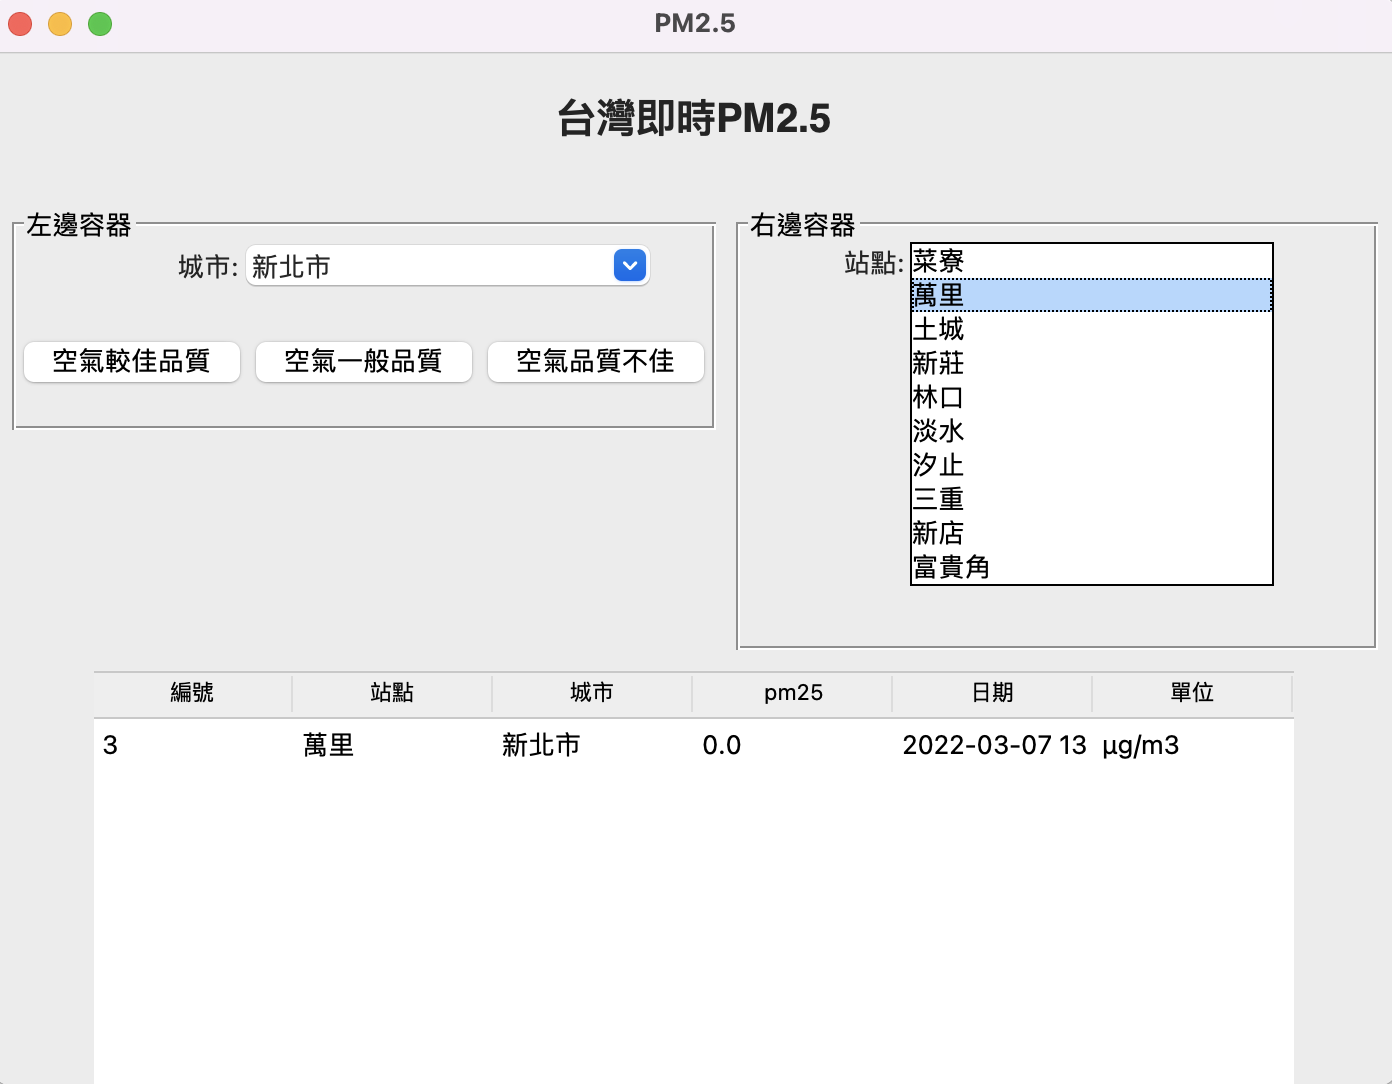
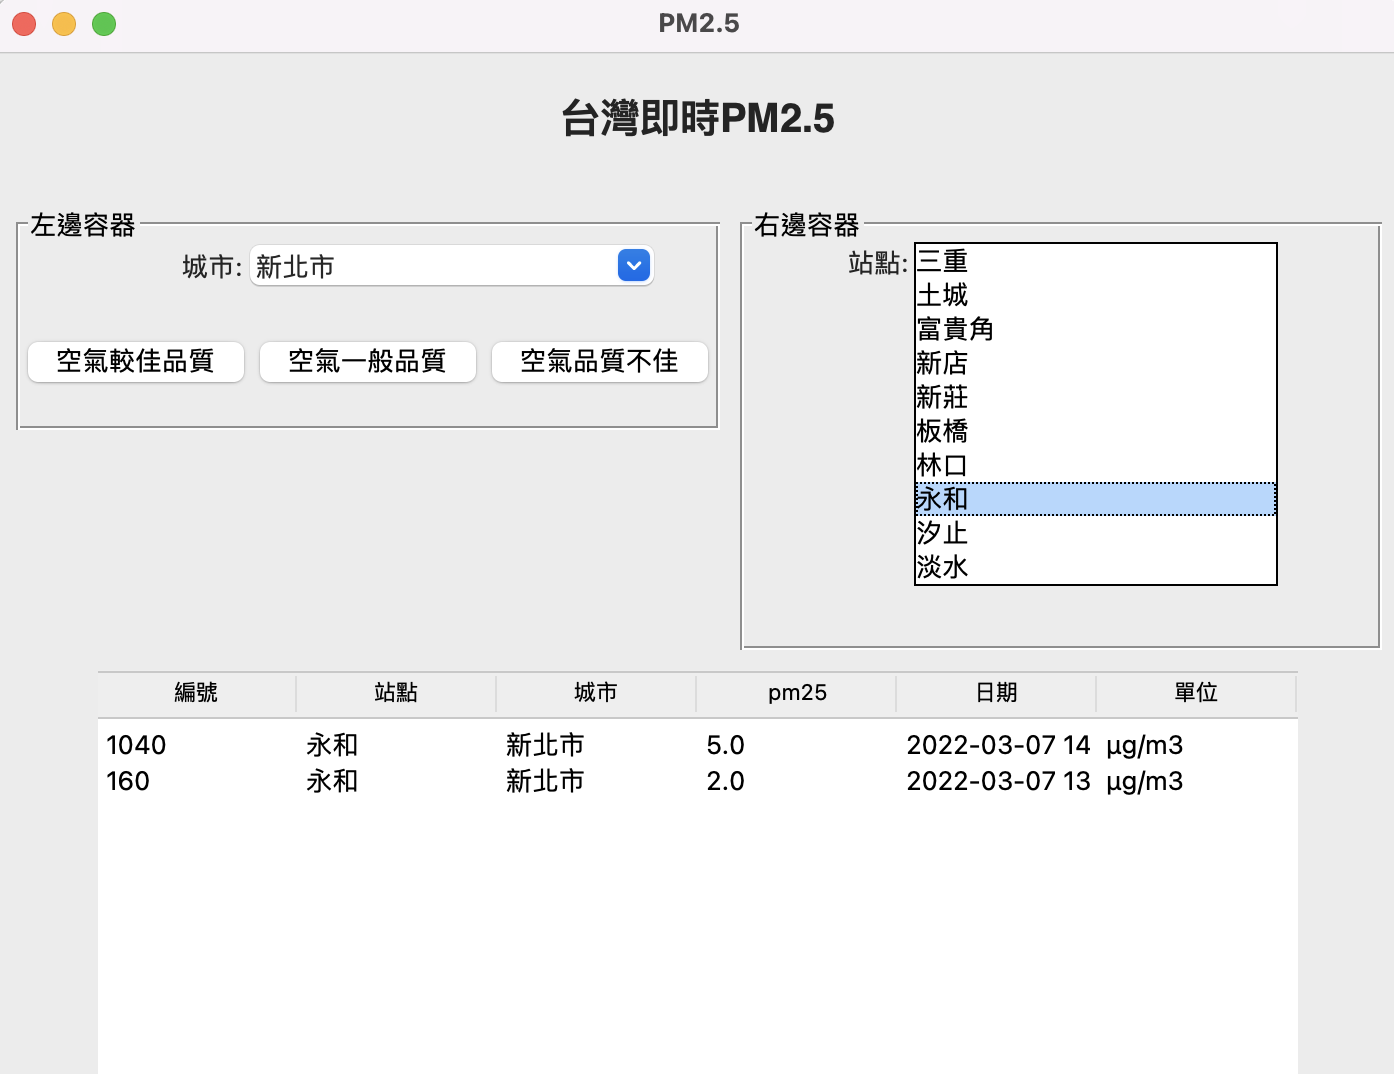
modify

diff --git a/sqlite/實際案例/台灣即時pm25/練習2/dataSource.py b/sqlite/實際案例/台灣即時pm25/練習2/dataSource.py
@@ -132,11 +132,12 @@ def get_site_info(site):
         SELECT  *
         FROM pm25
         WHERE 站點=?
-        LIMIT 1
+        ORDER BY 日期 DESC
+        LIMIT 100
         '''
     cursor = conn.cursor()
     cursor.execute(sql, (site,))
-    rows = cursor.fetchone()
+    rows = cursor.fetchall()
     return rows
 
 
@@ -146,7 +147,7 @@ def get_better():
     sql = '''
         SELECT  *
         FROM pm25
-        WHERE pm25 <= 35
+        WHERE 日期= (SELECT max(日期) FROM pm25) AND pm25 <= 35 
         '''
     cursor = conn.cursor()
     cursor.execute(sql)
@@ -159,7 +160,7 @@ def get_normal():
     sql = '''
         SELECT  *
         FROM pm25
-        WHERE pm25 BETWEEN 35 AND 53
+        WHERE (pm25 BETWEEN 35 AND 53) AND (SELECT max(日期) FROM pm25)
         '''
     cursor = conn.cursor()
     cursor.execute(sql)
@@ -172,7 +173,7 @@ def get_bad():
     sql = '''
             SELECT  *
             FROM pm25
-            WHERE pm25 > 53
+            WHERE pm25 > 53 AND (SELECT max(日期) FROM pm25)
             '''
     cursor = conn.cursor()
     cursor.execute(sql)

diff --git a/sqlite/實際案例/台灣即時pm25/練習2/lesson2.py b/sqlite/實際案例/台灣即時pm25/練習2/lesson2.py
@@ -119,8 +119,9 @@ class Window(tk.Tk):
         if not selectedIndex:
             return
         site = event.widget.get(selectedIndex)
-        siteInfo = dataSource.get_site_info(site)
-        self.tree.insert('',tk.END,values=siteInfo)
+        siteInfoes = dataSource.get_site_info(site)
+        for siteInfo in siteInfoes:
+            self.tree.insert('',tk.END,values=siteInfo)
 
 
 if __name__ == "__main__":
